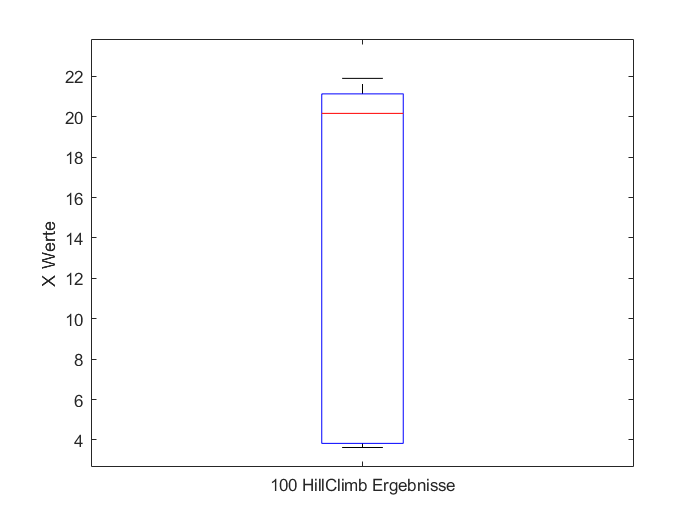
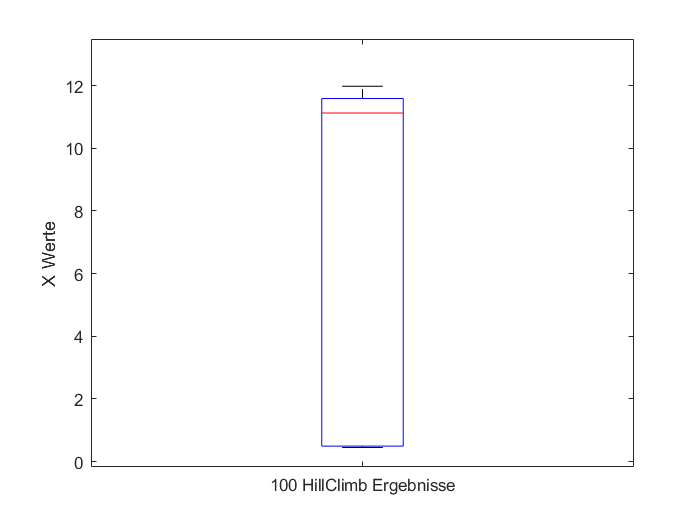
report um boxplot ergänzt

diff --git a/SimpleHillClimber/report/report.tex b/SimpleHillClimber/report/report.tex
@@ -30,27 +30,26 @@ Der HillClimb Algorithmus ben"otigt eine Kostenfunktion, anhand derer das Ergebn
 
 Es wird ein zufälliger Startwert $x$ zwischen $0$ und $2$ gewählt. Als Nachbarn gilt immer $x - 0.1$ und $x + 0.1$. Diese drei Werte werden in die Funktion fit(x) (Figure \ref{fig:fit}) eingesetzt. Der x-wert mit dem größten fit(x) wird als nächster Startwert verwendet. Dieser Vorgang wird 100 mal wiederholt. Der Startwert nach der letzten Iteration ist unsere Lösung. 
 
-\section{Unsere Ergebnisse}
-Die Fähigkeit dieses Verfahrens einen möglichst maximales fit(x) zu finden hängt besonders von der Wahl des zufälligen Startwertes ab, da für $x\leq1$ der Algorithmus im lokalen Maximum bei $x=0.5$ endet. Da fit(x) für alle $x>1$ streng monoton wachsend ist, steigt der gewählte x-wert 
-an, bis das Iterationslimit erreicht ist.
 
-\FloatBarrier
+
+\section{Unsere Ergebnisse}
+Die Fähigkeit dieses Verfahrens einen möglichst maximales fit(x) zu finden hängt besonders von der Wahl des zufälligen Startwertes ab, da für $x\leq1$ der Algorithmus im lokalen Maximum bei $x=0.5$ endet(Figure \ref{fig:fit_local_max_right} und Figure \ref{fig:fit_local_max_left}). Da fit(x) für alle $x>1$ streng monoton wachsend ist, steigt der gewählte x-wert 
+an, bis das Iterationslimit erreicht ist (Figure \ref{fig:fit_max}). 
+Da das Maximum davon abhängt, ob der Startwert größer als 1 ist oder nicht und das genau die Mitte des Intervalls ist, in dem der Startwert gebildet wird ist auch die Verteilung der Zwei Maxima annähernd 50:50. Sehr gut kann man das in dem Histogramm beobachten (Figure \ref{fig:histogram}). Es wird sehr deutlich, das es zwei Gruppen an Lösungen gibt. Die, die bei 0.5 liegen und die, die größer 10.5 sind. Dadurch ist im Boxplot (Figure \ref{fig:boxplot}) der Bereich zwischen dem oberen und dem unteren Quartil sehr groß.
+
 
 \section{plots}
+
 \begin{figure}[ht!]
 	\includegraphics[width=\linewidth]{img/fit}
 	\caption{Kostenfunktion: $fit(x) = (x>1).*(2.*x-2) + (x<=0.5).*8.*x + ((x>0.5).*(x<=1)).*(-8.*x + 8) $}
 	\label{fig:fit}
 \end{figure}
-
 \begin{figure}[ht!]
 \includegraphics[width=\linewidth]{img/plot_fit_max.png}
 \caption{$fit(Startwerte)$ aller Iterationen (rot), Maximum \small(blauer Kreis)}
 \label{fig:fit_max} 
 \end{figure}
-
-\FloatBarrier
-\newpage
 
 \begin{figure}[t]
 	\includegraphics[width=\linewidth]{img/plot_fit_local_max_right.png}
@@ -67,6 +66,11 @@ an, bis das Iterationslimit erreicht ist.
 	\includegraphics[width=\linewidth]{img/histogram_of_100_HillClimbs.png}
 	\caption{Häufigkeitsverteilung der Maximalen x-Werte nach 100 fachem ausführen des HillClimb Algorithmus}
 	\label{fig:histogram} 
+\end{figure}
+\begin{figure}[p]
+	\includegraphics[width=\linewidth]{img/Boxplot_of_100HillClimbs.png}
+	\caption{Häufigkeitsverteilung der Maximalen x-Werte nach 100 fachem ausführen des HillClimb Algorithmus}
+	\label{fig:boxplot} 
 \end{figure}
 
 
